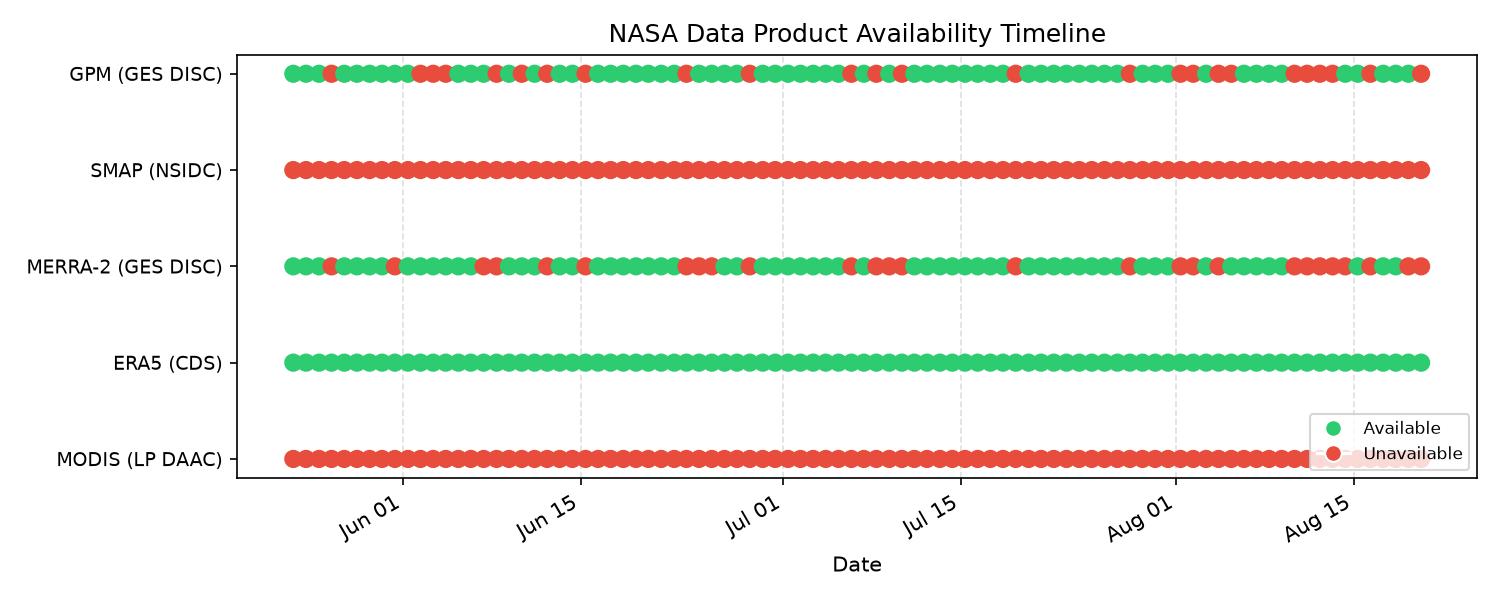
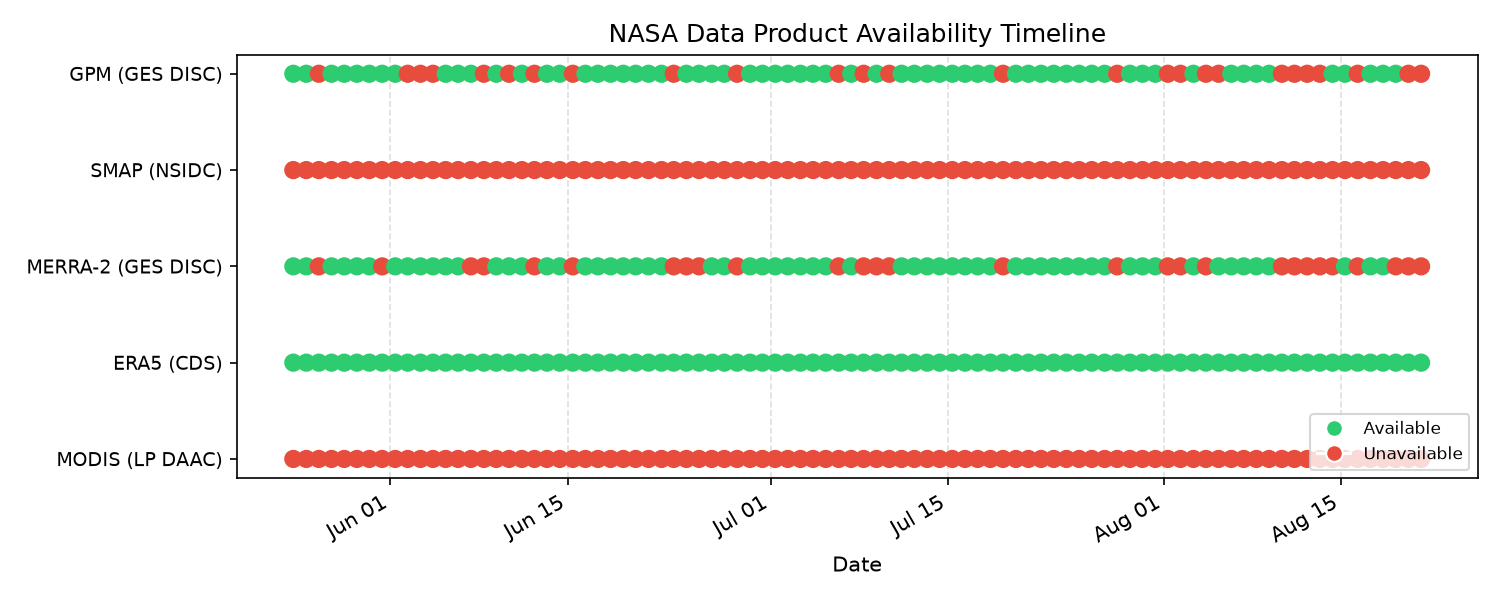
daily: update NASA data product availability status

diff --git a/docs/data-status.md b/docs/data-status.md
@@ -1,15 +1,15 @@
 # NASA Data Product Availability Status
 
-*Last checked: 2026-08-20 07:27 UTC*
+*Last checked: 2026-08-21 07:28 UTC*
 
 
 | Product | Status | Last Checked |
 | ------- | ------ | ------------ |
-| MODIS (LP DAAC) | ❌ Unavailable | 2026-08-20 07:27 UTC |
-| ERA5 (CDS) | ✅ Available | 2026-08-20 07:27 UTC |
-| MERRA-2 (GES DISC) | ❌ Unavailable | 2026-08-20 07:27 UTC |
-| SMAP (NSIDC) | ❌ Unavailable | 2026-08-20 07:27 UTC |
-| GPM (GES DISC) | ❌ Unavailable | 2026-08-20 07:27 UTC |
+| MODIS (LP DAAC) | ❌ Unavailable | 2026-08-21 07:28 UTC |
+| ERA5 (CDS) | ✅ Available | 2026-08-21 07:28 UTC |
+| MERRA-2 (GES DISC) | ❌ Unavailable | 2026-08-21 07:28 UTC |
+| SMAP (NSIDC) | ❌ Unavailable | 2026-08-21 07:28 UTC |
+| GPM (GES DISC) | ❌ Unavailable | 2026-08-21 07:28 UTC |
 
 ## Availability Timeline
 
